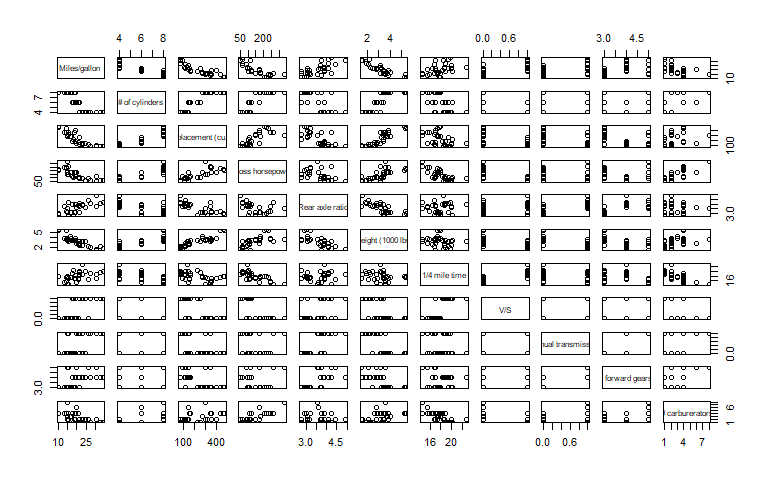
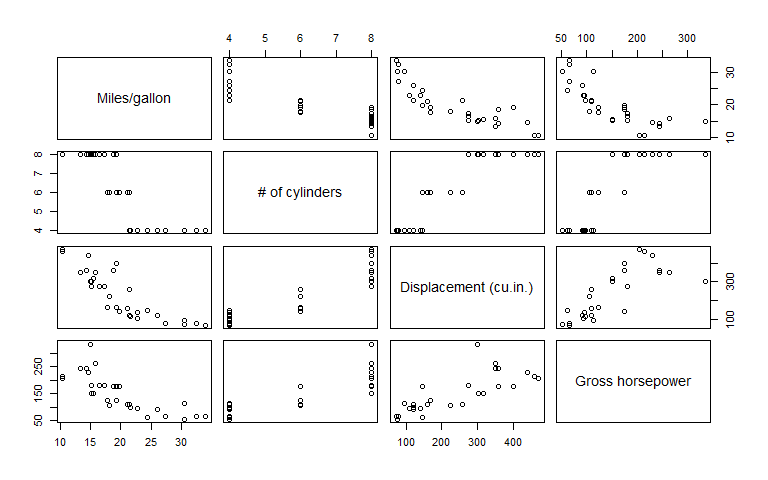
Completing readme draft -- added working examples.

diff --git a/README.md b/README.md
@@ -90,12 +90,14 @@ the primary function and just delete the generated lines I do not need.
 Let’s presume we’re writing a function that takes as an input a
 dataframe with the same number of columns, same column names, and same
 types as `mtcars`. As an example, the following function code takes
-`mtcars`-like dataframes and makes a paired plot. Perhaps we have dozens
-of alternative `mtcars` type dataframes that do
+`mtcars`-like dataframes and makes a paired plot of some selected
+columns. Perhaps we have dozens of alternative `mtcars`-like dataframes
+representing different sets of cars, and we use this function to
+streamline plot-making.
 
 ``` r
 foo = function(dat){
-  pairs(dat,
+  pairs(dat[,-(5:11)],
         labels = c(
           "Miles/gallon",
           "# of cylinders",
@@ -112,11 +114,12 @@ foo = function(dat){
 }
 ```
 
-The function `foo` function is fairly fragile – if we feed it data that
-doesn’t match the columns names (in order) that we’re expecting, our
-labels will be wrong; if your input doesn’t have enough columns. Let’s
-compare `foo` behavior when given an appropriate dataframe (`mtcars`)
-and an inappropriate dataframe (`cars`).
+The function `foo` function is quite fragile (intentionally so). If we
+feed it data that doesn’t match the columns names (in order) that we’re
+expecting, our labels will be wrong; if our input don’t have enough
+columns, `foo` will generate a simpler plot with the existing columns.
+Let’s compare `foo` behavior when given an appropriate dataframe
+(`mtcars`) and an inappropriate dataframe (`cars`).
 
 ``` r
 foo(mtcars)
@@ -132,9 +135,11 @@ foo(cars)
 
 The second plot has incorrect labels and is not plotting the type of
 data we intended to, but we did not get an error. If we want to make
-this function more robust by adding in error checks to compare the
-argument `dat` with the characteristics we’re expecting, we can use
-`testmaker_df_sin()`
+this function more robust, we can use `testmaker_df_sin()` to generate
+`stopIfNot()` code check that `dat` has characteristics that match our
+template dataframe (`mtcars`). (Yes, in this case we could also rewrite
+the existing code to be far less fragile, but that is not always
+easy/possible).
 
 ``` r
 testmaker_df_sin(mtcars, return.style = "none", object.name = "dat")
@@ -193,9 +198,27 @@ foo2 = function(dat){
 }
 ```
 
-In this case, it may be cleaner to write a single test of column types,
-since we know they all need to be type double. The generated tests are
-not meant to be a starting point rather than an ending point.
+Let’s see how this new function behaves when given `mtcars` or `cars`.
+
+``` r
+foo2(mtcars)
+```
+
+<img src="man/figures/README-unnamed-chunk-7-1.png" width="100%" />
+
+``` r
+foo2(cars)
+#> Error in foo2(cars): ncol(dat) == 11 is not TRUE
+```
+
+Now when we (or another user) accidentally give `foo2` the wrong data
+type, we (or they) receive an error rather than having the function
+behave incorrectly.
+
+In the case of `foo2()`, it may be cleaner to write a single test of
+column types, since we know they all need to be type double. The
+generated tests from `testmaker` are meant to be a starting point rather
+than an ending point.
 
 ## Function name conventions
 
@@ -219,12 +242,13 @@ I intend to add the following features:
 ## Dev notes
 
 It was suggested this could be provided in the testthat setup files:
-<https://testthat.r-lib.org/articles/special-files.html>. From that: \>
-Helper files live in tests/testtthat/, start with helper, and end with
-.r or .R. They are sourced by devtools::load_all() (so they’re available
-interactively when developing your packages) and by test_check() and
-friends (so that they’re available no matter how your tests are
-executed).
+<https://testthat.r-lib.org/articles/special-files.html>. From that:
+
+> Helper files live in tests/testtthat/, start with helper, and end with
+> .r or .R. They are sourced by devtools::load_all() (so they’re
+> available interactively when developing your packages) and by
+> test_check() and friends (so that they’re available no matter how your
+> tests are executed).
 
 I will dig into how this package can easily be inserted in the the
 testthat setup files, and will update documentation with instructions
